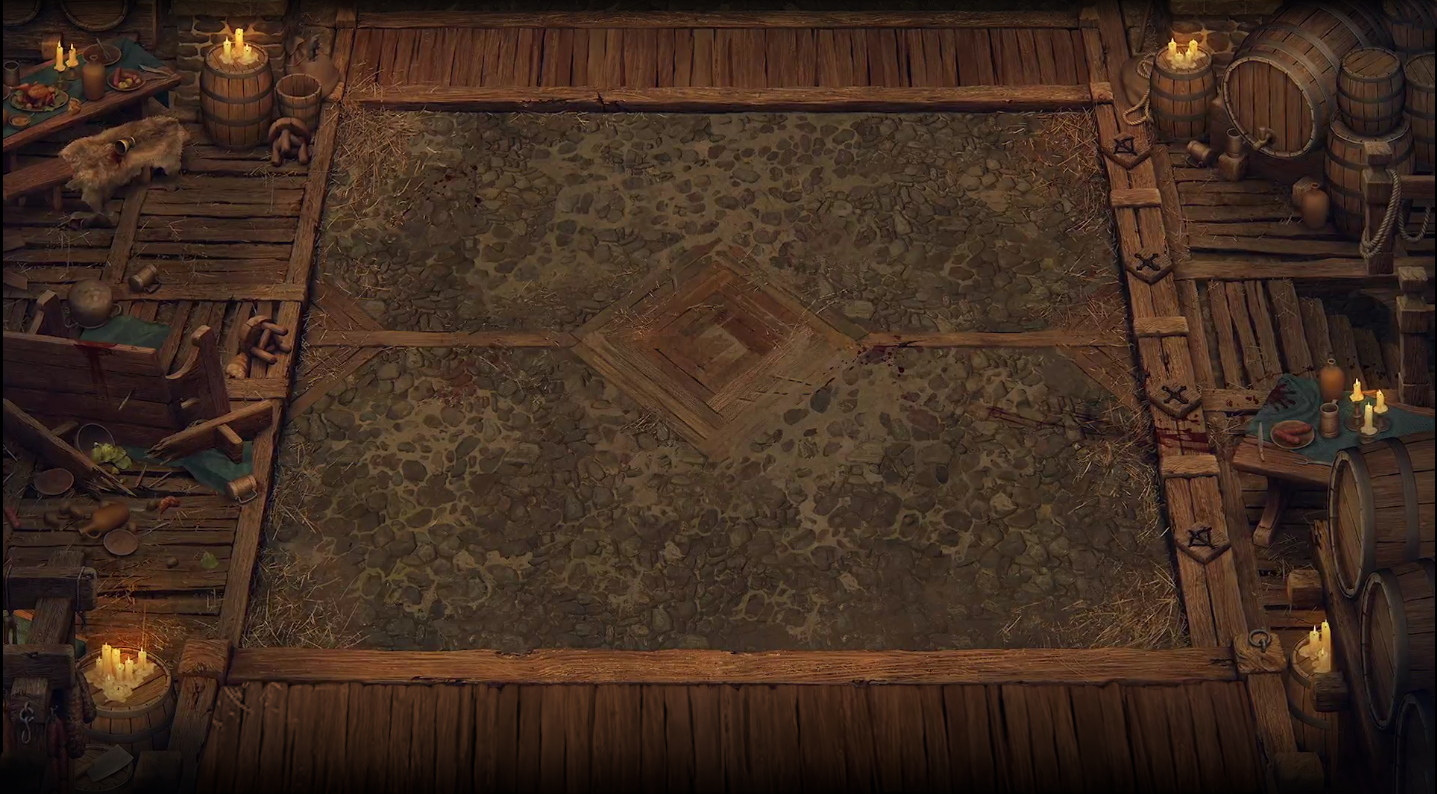
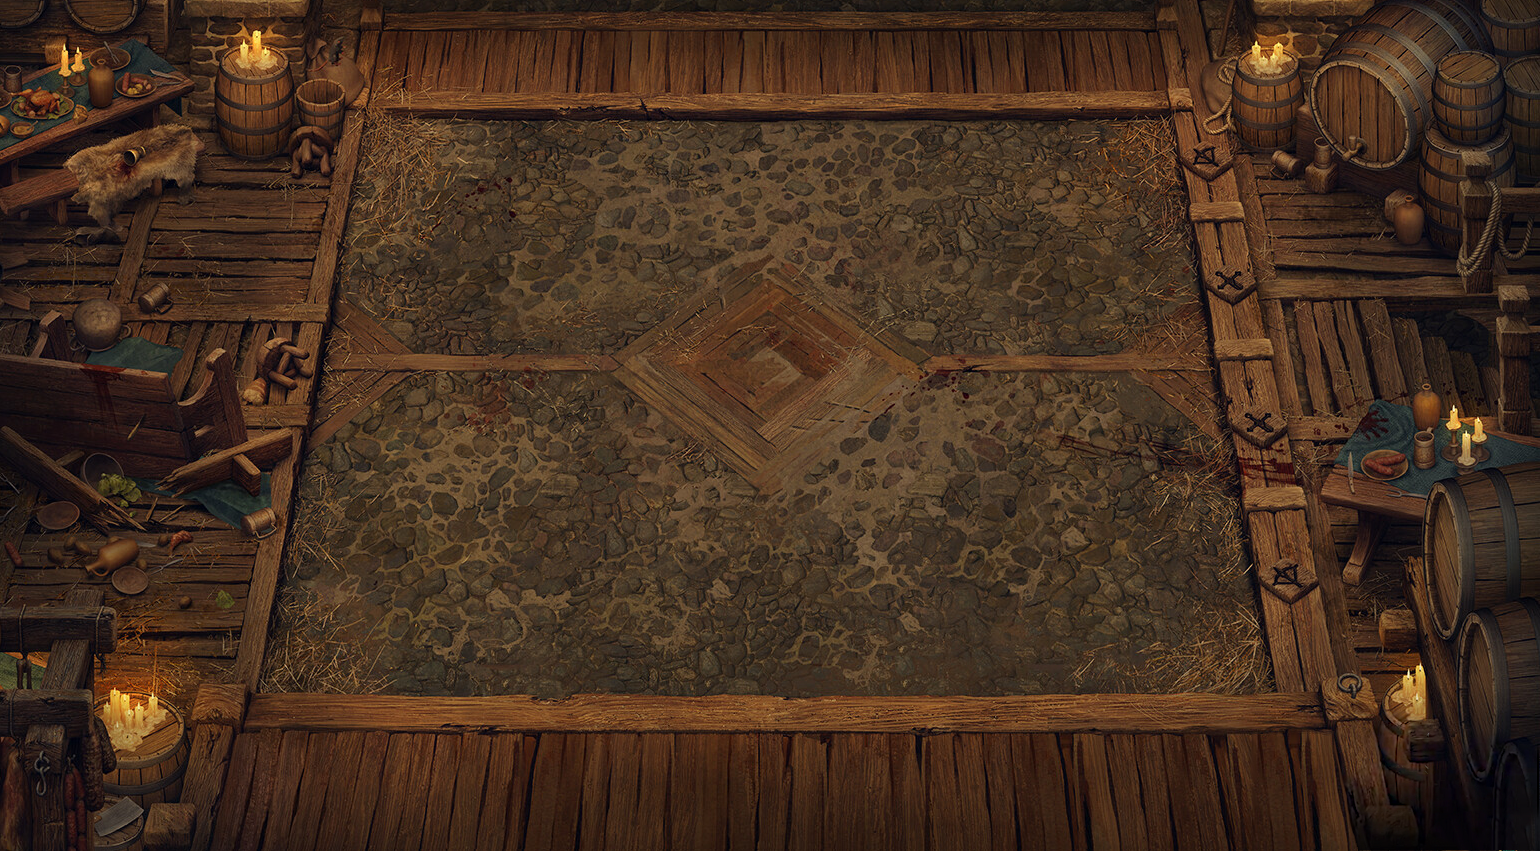
lobby done

diff --git a/css/global.css b/css/global.css
@@ -161,8 +161,96 @@ body {
 	z-index: 0;
 	mix-blend-mode: screen;
 }
+/*----------------LOBBY-------------*/
 
+.lobby{
+	background-image: url("../img/lobby_background.jpg");
+	background-size: cover;
+	background-position: top;
+	background-repeat: no-repeat;
+	width: 100%;
+	height: 100%;
+}
 
+.lobby-banner{
+	width: 100%;
+	height: 8vh;
+	font-size: 5.8vh;
+	text-shadow: 0px 0.2vh 0px rgba(255,255,255,.5);
+	background-size: contain;
+	background-position: center;
+	background-repeat: no-repeat;
+	display: flex;
+	align-items: center;
+	justify-content: center;
+	text-align: center;
+	background-image: url("../img/title-bar.png");
+}
+
+.lobby-btn-chat-container{
+	display: flex;
+	height: 90vh;
+	margin-top: -8vh;
+}
+
+.lobby-chat-container{
+	display: flex;
+	justify-content: center;
+	align-items: center;
+	height: 100%;
+}
+
+.chat-lobby{
+	margin-top: 8vh;
+	margin-left: 8vh;
+	background-color: rgba(243, 194, 138, 0.657);
+	background-image: url("../img/frame-chat.png");
+	background-size: 100% 100%;
+	border: none;
+}
+.lobby-btn-container{
+	display: flex;
+	flex-direction: column;
+	justify-content: center;
+	align-items: flex-end;
+	/*background: rgb(0,0,0);*/
+	background: linear-gradient(90deg, rgba(0,0,0,0.8) 0%, rgba(66,74,65,0) 100%);
+	width: 50vh;
+	height: 100vh;
+}
+.lobby-btn{
+	width: 100%;
+	height: 10vh;
+	font-size: 6vh;
+	color: rgb(12, 10, 6);
+	text-shadow: 0px 0.2vh 0px rgba(255,255,255,.5);
+	background-color: rgba(0, 0, 0, 0);
+	border: none;
+	outline: none;
+	background-image: url("../img/lobby-btn.png");
+	background-size: 100% 100%;
+	background-position: center;
+	background-repeat: no-repeat;
+	margin-bottom: 1vh;
+	margin-top: 1vh;
+}
+.lobby-btn:hover{
+	background-image: url("../img/lobby-btn-hover.png");
+}
+.lobby-btn:active{
+	background-image: url("../img/lobby-btn-click.png");
+}
+
+.lobby-input{
+	border-radius: 1vh;
+	height: 5vh;
+	width: 75%;
+	margin-right: 2vh;
+	text-align: right;
+	padding-right: 2vh;
+	font-size: 4vh;
+	background-color: rgb(216, 202, 157);
+}
 
 /*--------------JEU------------------*/
 
@@ -719,4 +807,8 @@ body {
 	top: 12vh;
 	background-color: white;
 	z-index: 10000;
+	background-color: rgba(243, 194, 138, 0.657);
+	background-image: url("../img/frame-chat.png");
+	background-size: 100% 100%;
+	border: none;
 }

diff --git a/js/lobbyJavascript.js b/js/lobbyJavascript.js
@@ -1,17 +1,45 @@
+let spriteList = [];
 
 window.addEventListener("load", () =>{
     let buttons = document.querySelectorAll("button");
-    
-
     buttons.forEach(btn => {
         btn.onclick = () =>{sendForm(btn.name)};
     })
-})
 
+
+    window.requestAnimationFrame(tick);
+})
+let lastTime = 0;
+const tick = timeSpan =>{
+    deltaTick =  (timeSpan - lastTime) / 1000;
+    lastTime = timeSpan;
+
+    for (let i = 0; i < spriteList.length; i++) {
+        const element = spriteList[i];
+        let alive = element.tick(deltaTick);
+        if (!alive) {
+            spriteList.splice(i, 1);
+            i--;
+        }
+    }
+
+    window.requestAnimationFrame(tick);
+
+}
 
 const sendForm = name =>{
     let formData = new FormData();
     formData.append("name", name);
+    let privateKey = document.querySelector("#PRIVATE_KEY").value;
+    if(privateKey != ""){
+        console.log(privateKey);
+        formData.append("privateKey", privateKey);
+    }
+    let username = document.querySelector("#observe").value;
+    if(username != ""){
+        console.log(username);
+        formData.append("username", username);
+    }
 
     console.log("tha name: " + name);
 
@@ -26,6 +54,9 @@ const sendForm = name =>{
             window.location.href = "index.php";
         }
         if(name == "pratique" || name == "jouer"){
+            window.location.href = "jeu.php";
+        }
+        else if(name == "observer" && username != ""){
             window.location.href = "jeu.php";
         }
     })

diff --git a/js/jeuJavascript.js b/js/jeuJavascript.js
@@ -138,16 +138,17 @@ const state = () => {
         let btnHeroPower = document.querySelector("#btn-HeroPower");
         let btnEndTurn = document.querySelector("#btn-EndTurn");
         
-
+        
         btnEndTurn.disabled = true;
         btnHeroPower.disabled = true;
         if(data["yourTurn"] != undefined){
             myTurn = data["yourTurn"];
             
-
+            
             //---------TIME--------
-            timer.innerText = data["remainingTurnTime"]
+            timer.innerText = data["remainingTurnTime"];
             if(data["yourTurn"]){
+                timer.style.color = "rgb(0, 255, 136)";
                 if(!data["heroPowerAlreadyUsed"] && data["mp"] >=2){
                     btnHeroPower.disabled = false;   
                 }
@@ -155,6 +156,7 @@ const state = () => {
                 timerSprite.style.transform = "rotate(0.5turn)";
             }
             else{
+                timer.style.color = "#ffbf00";
                 timerSprite.style.transform = "rotate(0deg)";
             }
     

diff --git a/lobby.php b/lobby.php
@@ -6,13 +6,11 @@
 
     require_once("partial/header.php");
 
-
-
-    
 ?>
 <script src="js/lobbyJavascript.js"></script>
 
-<div>
+<div class="lobby">
+    <div class="lobby-banner">
         <?php
             if ($data["isLoggedIn"]) {
                 ?>
@@ -20,21 +18,24 @@
                 <?php
             }
         ?>
+    </div>
+    
+    <div class="lobby-btn-chat-container">
+        <div class="lobby-btn-container">
+            <button class="lobby-btn" name="pratique">Practice</button>
+            <button class="lobby-btn" name="jouer">Play</button>
+            <input class="lobby-input" type="text" name="PRIVATE_KEY" id="PRIVATE_KEY" placeholder="private key"/>
+            <button class="lobby-btn" name="observer">Observe</button>
+            <input class="lobby-input" type="text" name="observer" id="observe" placeholder="player name"/>
+            <button class="lobby-btn" name="quitter">Quit</button>
+        </div>
+
+        <div class="lobby-chat-container">
+            <iframe class="chat-lobby" style="width:500px;height:562px;" 
+                src=<?="https://magix.apps-de-cours.com/server/#/chat/" . $_SESSION["theOneAndUltimateKey"]."/large"?>>
+            </iframe>
+        </div>
+    </div>
 </div>
-
-
-<div>
-        <h1>Ceci est le Lobby</h1>
-        <button name="pratique">Pratique</button>
-        <button name="jouer">Jouer</button>
-        <button name="quitter">Quitter</button>
-</div>
-
-<div>
-    <iframe style="width:700px;height:240px;" 
-        src=<?="https://magix.apps-de-cours.com/server/#/chat/" . $_SESSION["theOneAndUltimateKey"]?>>
-    </iframe>
-</div>
-
 <?php
     require_once("partial/footer.php");

diff --git a/action/lobbyAjaxAction.php b/action/lobbyAjaxAction.php
@@ -20,8 +20,18 @@
 
                 }
                 elseif ($input == "pratique" || $input == "jouer") {
+                    if(!empty($_POST["privateKey"])){
+                        $data["private-key"] = $_POST["privateKey"];
+                    }
                     $data["type"] = ($input == "pratique" ? "TRAINING" : "PVP");
                     $result = parent::callAPI("games/auto-match", $data);
+                }
+                elseif($input == "observer"){
+                    if(!empty($_POST["username"])){
+                        $_SESSION["obsUsername"] = $_POST["username"];
+                        $data["type"] = $_POST["username"];
+                        $result = parent::callAPI("games/observe", $data);
+                    }
                 }
             }
 

diff --git a/jeuAjax-state.php b/jeuAjax-state.php
@@ -10,7 +10,13 @@
         protected function executeAction() {
             $data["key"] = $_SESSION["theOneAndUltimateKey"];
 
-            $result = parent::callAPI("games/state", $data);
+            if(isset($_SESSION["obsUsername"])){
+                $data["username"] = $_SESSION["obsUsername"];
+                $result = parent::callAPI("games/observe", $data);
+            }
+            else{
+                $result = parent::callAPI("games/state", $data);
+            }
             return compact("result");
         }
     }

diff --git a/action/LobbyAction.php b/action/LobbyAction.php
@@ -9,6 +9,8 @@
 
         protected function executeAction() {
             
+            unset($_SESSION["obsUsername"]);
+
             return [];
         }
     }
